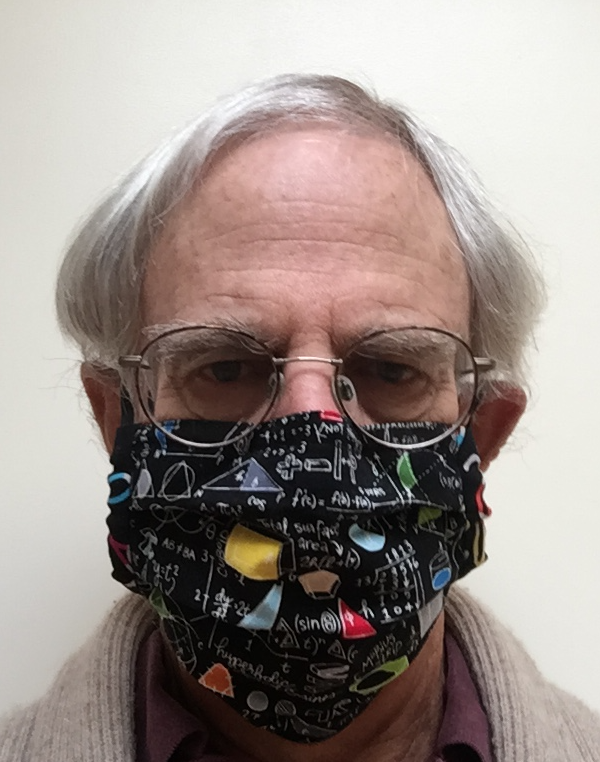
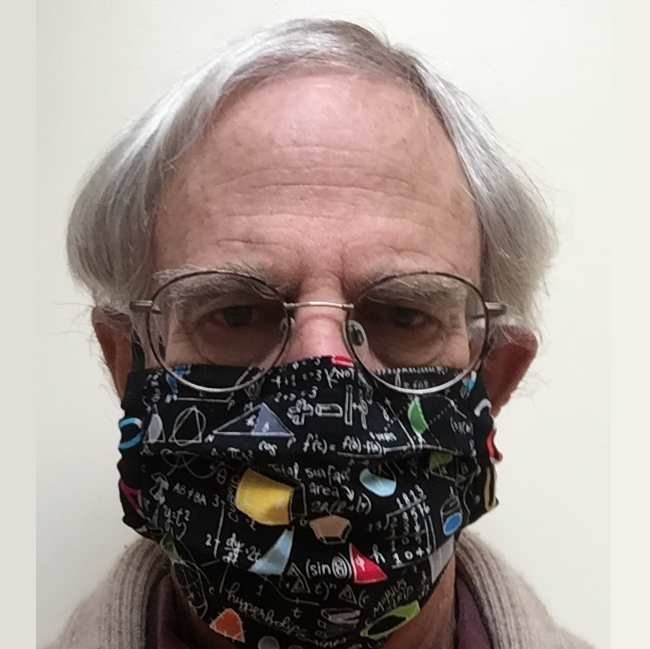
fixed image sizes

diff --git a/index.html b/index.html
@@ -64,12 +64,6 @@
 								    <div class="name" style="text-align:center"><b>Maggie Makar</b></div></a>
 								  </div>
 								  <div class="member">
-								  	<a href="http://dblalock.github.io" class="invisible-link">
-								    <img src="images/davis.jpg" style="width:100%; border-radius: 20px">
-								    <div class="name" style="text-align:center"><b>Davis Blalock</b></div>
-									</a>
-								  </div>
-								  <div class="member">
 								    <a href="http://josejg.com/" class="invisible-link">
 								    	<img src="images/jose.jpg" style="width:100%; border-radius:20px">
 								    <div class="name" style="text-align:center"><b>Jose Javier Gonzalez Ortiz</b></div></a>
@@ -125,6 +119,7 @@
 								  	<div class="row">
 								  		<div class="column">
 								  			<p>
+								  			Davis Blalock <br>
 								  			Amy Zhao <br>
 										  	Guha Balakrishnan  <br>
 										  	Joel Brooks <br>
